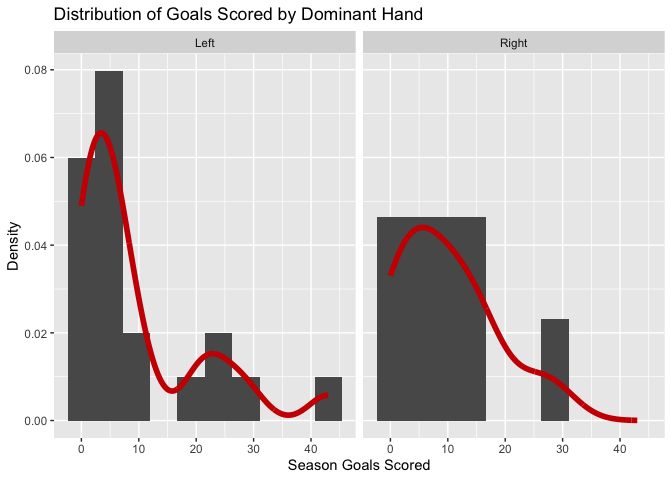
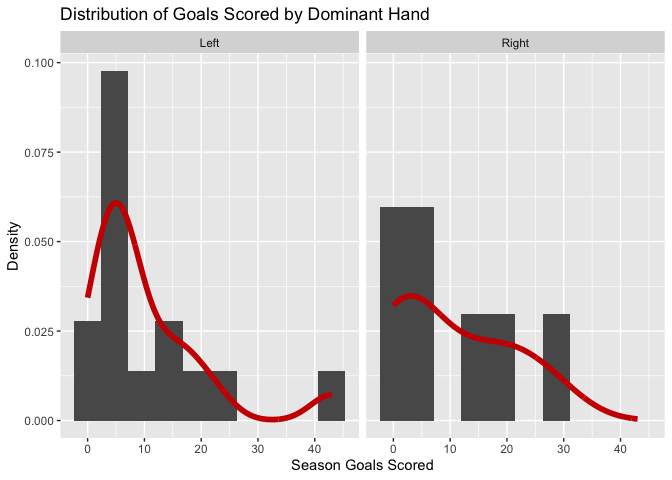
finishing touches

diff --git a/README.md b/README.md
@@ -1,7 +1,7 @@
 ST558 Project I
 ================
 Mana Azizsoltani
-07 September, 2020
+11 September, 2020
 
   - [Required Packages](#required-packages)
   - [Creating the Functions](#creating-the-functions)
@@ -57,22 +57,36 @@ getRecords <- function(endpoint, teamID = NULL, teamName = NULL){
   return(data)
 }
 
+
 # Write the function for the NHL Stats API
 getStats <- function(modifier, teamID = NULL, season=NULL){
   base <- "https://statsapi.web.nhl.com/api/v1/teams"
   if(!is.null(modifier)){
-    if (modifier == "statsSingleSeasonPlayoffs"){
+    if (modifier == "team.roster"){
+      full_url <- paste0(base, "/", teamID, "?expand=", modifier)
+      data <- fromJSON(full_url, flatten = TRUE)$teams[[30]][[1]]
+    } else if(modifier == "team.schedule.next" | modifier == "team.schedule.previous"){
+      full_url <- paste0(base, "/", teamID, "?expand=", modifier)
+      data <- fromJSON(full_url, flatten = TRUE)$teams[[34]][[1]]
+    } else if (modifier == "team.stats"){
+      full_url <- paste0(base, "/", teamID, "?expand=", modifier)
+      data <- fromJSON(full_url, flatten = TRUE)$teams[[8]][[1]]
+      data <- data[[1]][[1]]
+    } else if (modifier == "statsSingleSeasonPlayoffs"){
       full_url <- paste0(base, "/", teamID, "?stats=", modifier)
+      data <- fromJSON(full_url, flatten = TRUE)$teams
     } else if (!is.null(season)){
       full_url <- paste0(base, "/", teamID, "?expand=", modifier, "&season=", season)
+      data <- fromJSON(full_url, flatten = TRUE)$teams
     } else {
         full_url <- paste0(base, "/", teamID, "?expand=", modifier)
+        data <- fromJSON(full_url, flatten = TRUE)$teams
       }
   }
   if (is.null(modifier)){
     full_url <- base
+    data <- fromJSON(full_url, flatten = TRUE)$teams
   }
-  data <- fromJSON(full_url, flatten = TRUE)$teams
   return(data)
 }
 
@@ -101,7 +115,7 @@ of the `players` endpoint in the NHL Stats API.
 ``` r
 # read in the roster of the VGK for the 2017/2018 season
 rosters <- pullData(api = "stats", modifier = "team.roster", teamID = 54, season = 20172018)
-VGKrost <- as.data.frame(rosters[[30]][[1]])
+VGKrost <- as.data.frame(rosters)
 VGKrost <- VGKrost %>% filter(position.code != "G") %>% select(-person.link)
 
 # Get the stats for each individual player.
@@ -111,7 +125,7 @@ df.stats <- data.frame()
 for (i in 1:length(ppl)){
   url <- paste0("https://statsapi.web.nhl.com/api/v1/people/", ppl[i],
                 "/stats?stats=statsSingleSeason&season=20172018")
-  temp <- fromJSON(url, flatten = TRUE)$stats$splits %>% as.data.frame()
+  temp <- fromJSON(url, flatten = TRUE)$stats$splits[[1]]
   temp$person.id <- as.numeric(ppl[i])
   df.stats <- bind_rows(df.stats, temp)
 }
@@ -145,7 +159,8 @@ df <- inner_join(dfd, df.stats)
 df <- df %>% select(-ends_with("link"), -starts_with("primary"), -ends_with("TimeOnIce"), 
                     -position.code, -person.fullName, -firstName, -lastName, -active,
                     -starts_with("birth"), -rosterStatus, -currentTeam.name, 
-                    -currentTeam.id, -season, -ends_with("TimeOnIcePerGame"))
+                    -currentTeam.id, -season, -ends_with("TimeOnIcePerGame")) %>%
+             filter(!is.na(stat.games))
 
 
 # Create new variables
@@ -170,9 +185,9 @@ table(df$position.name) %>% kable(caption = "Number of players in each field pos
 
 | Position   | Frequency |
 | :--------- | --------: |
-| Center     |         8 |
-| Defenseman |        10 |
-| Left Wing  |         8 |
+| Center     |         7 |
+| Defenseman |         8 |
+| Left Wing  |         3 |
 | Right Wing |         4 |
 
 Number of players in each field position
@@ -184,15 +199,10 @@ table(df$nationality) %>% kable(caption = "Number of Players by Nationality",
 
 | Nationality | Frequency |
 | :---------- | --------: |
-| CAN         |        16 |
-| CHE         |         1 |
-| CZE         |         2 |
-| FIN         |         1 |
-| FRA         |         1 |
-| RUS         |         1 |
-| SVK         |         1 |
-| SWE         |         2 |
-| USA         |         5 |
+| CAN         |        14 |
+| CZE         |         1 |
+| SWE         |         1 |
+| USA         |         6 |
 
 Number of Players by Nationality
 
@@ -203,9 +213,9 @@ table(df$position.name, df$domHand) %>% kable(caption = "Player Position by Domi
 
 |            | Left-Handed | Right-Handed |
 | :--------- | ----------: | -----------: |
-| Center     |           6 |            2 |
-| Defenseman |           7 |            3 |
-| Left Wing  |           7 |            1 |
+| Center     |           5 |            2 |
+| Defenseman |           6 |            2 |
+| Left Wing  |           3 |            0 |
 | Right Wing |           1 |            3 |
 
 Player Position by Dominant Hand
@@ -220,20 +230,20 @@ a significant difference.
 
 ``` r
 # Make the first contingency table: average measurements by position
-means1 <- df %>% group_by(position.name) %>% summarize(avgGoals = mean(stat.goals), 
-                                                      avgAssists = mean(stat.assists),
-                                                      avgShots = mean(stat.shots),
-                                                      avgHits = mean(stat.hits))
+means1 <- df %>% group_by(position.name) %>% summarize(avgGoals = mean(stat.goals, na.rm = TRUE), 
+                                                       avgAssists = mean(stat.assists, na.rm = TRUE),
+                                                       avgShots = mean(stat.shots, na.rm = TRUE),
+                                                       avgHits = mean(stat.hits, na.rm = TRUE))
 means1 %>% kable(caption = "Average Season Stats by Position",
-                col.names = c("Position", "Goals", "Assists", "Shots", "Hits"))
+                 col.names = c("Position", "Goals", "Assists", "Shots", "Hits"))
 ```
 
-| Position   | Goals | Assists |  Shots |  Hits |
-| :--------- | ----: | ------: | -----: | ----: |
-| Center     |  12.5 |   14.50 |  94.75 | 42.25 |
-| Defenseman |   3.7 |   14.30 |  76.30 | 69.70 |
-| Left Wing  |  14.0 |   17.25 | 124.50 | 73.00 |
-| Right Wing |  10.5 |   17.00 |  97.50 | 95.25 |
+| Position   |     Goals |  Assists |    Shots |      Hits |
+| :--------- | --------: | -------: | -------: | --------: |
+| Center     | 15.285714 | 19.85714 | 111.1429 |  48.14286 |
+| Defenseman |  4.375000 | 14.12500 |  83.0000 |  86.50000 |
+| Left Wing  |  8.333333 | 10.00000 | 118.6667 |  94.66667 |
+| Right Wing | 15.250000 | 27.00000 | 126.7500 | 107.00000 |
 
 Average Season Stats by Position
 
@@ -241,35 +251,34 @@ Average Season Stats by Position
 # Make the second contingency table: average measurements by nationality
 means2 <- df %>% filter(nationality %in% c("CAN", "CHE", "USA", "SWE")) %>%
                  group_by(nationality) %>%
-                 summarise(avgGoals = mean(stat.goals), 
-                           avgAssists = mean(stat.assists),
-                           avgShots = mean(stat.shots),
-                           avgHits = mean(stat.hits))
+                 summarise(avgGoals = mean(stat.goals, na.rm = TRUE), 
+                           avgAssists = mean(stat.assists, na.rm = TRUE),
+                           avgShots = mean(stat.shots, na.rm = TRUE),
+                           avgHits = mean(stat.hits, na.rm = TRUE))
 means2 %>% kable(caption = "Average Stats for Selected Players Nationalities",
                  col.names = c("Nationality", "Goals", "Assists", "Shots", "Hits"))
 ```
 
-| Nationality |   Goals | Assists |  Shots |   Hits |
-| :---------- | ------: | ------: | -----: | -----: |
-| CAN         |  8.9375 |  18.375 | 104.25 | 82.375 |
-| CHE         |  2.0000 |  12.000 |  26.00 | 50.000 |
-| SWE         | 26.0000 |  18.500 | 132.50 | 60.000 |
-| USA         |  6.0000 |  12.400 |  79.40 | 51.800 |
+| Nationality |     Goals |  Assists |     Shots |     Hits |
+| :---------- | --------: | -------: | --------: | -------: |
+| CAN         |  8.214286 | 15.64286 |  88.78571 | 86.00000 |
+| SWE         | 43.000000 | 35.00000 | 184.00000 | 48.00000 |
+| USA         | 10.500000 | 21.33333 | 131.00000 | 72.66667 |
 
 Average Stats for Selected Players Nationalities
 
 ``` r
 # Make the third contingency table: mean & sd by dominant hand
-means3 <- df %>% group_by(domHand) %>% summarise(avgGoals = round(mean(stat.goals), 3), 
-                                                       sdGoals = round(sd(stat.goals), 3))
+means3 <- df %>% group_by(domHand) %>% summarise(avgGoals = round(mean(stat.goals, na.rm = TRUE), 3), 
+                                                 sdGoals = round(sd(stat.goals, na.rm = TRUE), 3))
 means3 %>% kable(caption = "Average Goals (and SE) by Players Handedness",
                  col.names = c("Dominant Hand", "Mean", "Std. Dev."))
 ```
 
-| Dominant Hand |  Mean | Std. Dev. |
-| :------------ | ----: | --------: |
-| Left          | 9.714 |    11.490 |
-| Right         | 9.667 |     8.602 |
+| Dominant Hand |   Mean | Std. Dev. |
+| :------------ | -----: | --------: |
+| Left          | 10.467 |    10.882 |
+| Right         | 10.143 |    10.605 |
 
 Average Goals (and SE) by Players Handedness
 
